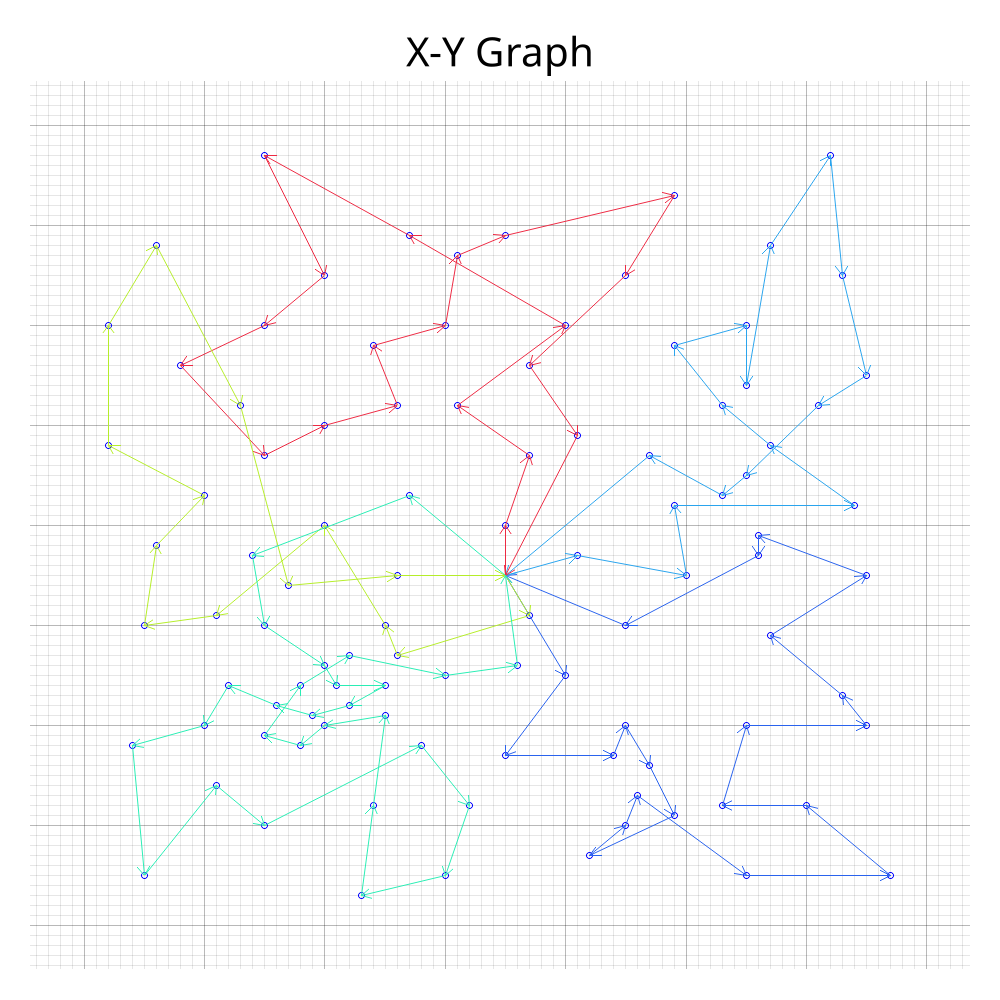
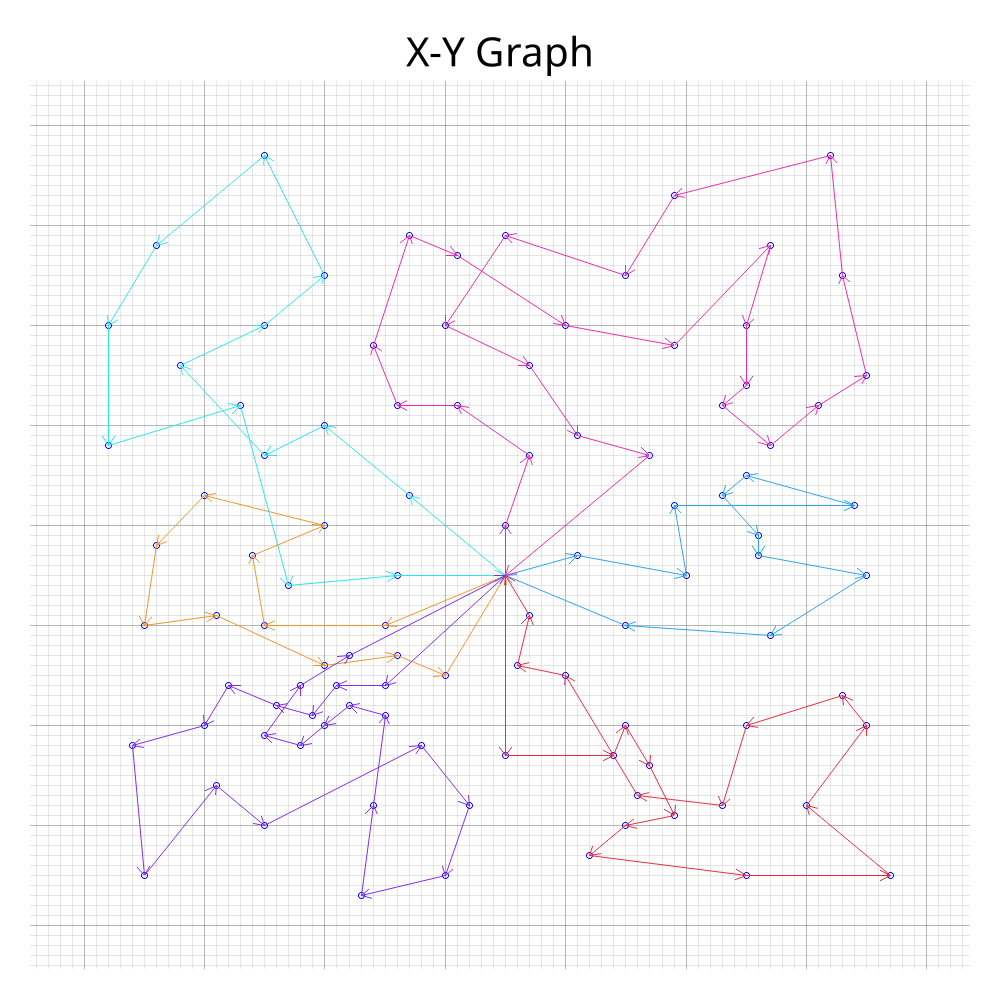
mutating

diff --git a/Project-2/src/genetic/mutation.rs b/Project-2/src/genetic/mutation.rs
@@ -19,6 +19,9 @@ pub fn mutate_nurse(individual: &mut Vec<Nurse>, info: &Info, config: &Config) {
         if rng.random_range(0.0..1.0) < config.heuristic_cluster_mutation_rate  {
             heuristic_cluster_mutation(individual, &mut rng, &info, &config);
         }
+        if rng.random_range(0.0..1.0) < 0.5 {
+            swap_mutation(individual, &mut rng, &info, &config);
+        }
     }
 }
 
@@ -58,4 +61,59 @@ pub fn heuristic_cluster_mutation(nurses: &mut Vec<Nurse>, rng: &mut ThreadRng, 
     nurses[best_nurse_idx].route.splice(best_route_idx..best_route_idx, cluster);
 }
 
-fn chunk_split_mutation() {}
+fn swap_mutation(nurses: &mut Vec<Nurse>, rng: &mut ThreadRng, info: &Info, config: &Config) {
+    let nurse_idx = rng.random_range(0..nurses.len());
+
+    let mut nurse: &mut Nurse = nurses.get_mut(nurse_idx).unwrap();
+    if nurse.route.len() > 1 {
+        let i = rng.random_range(0..nurse.route.len());
+        let mut j;
+        loop {
+            j = rng.random_range(0..nurse.route.len());
+            if j != i {
+                break;
+            }
+        }
+        nurse.route.swap(i, j);
+    }
+}
+
+fn heuristic_swap_mutation(nurses: &mut Vec<Nurse>, rng: &mut ThreadRng, info: &Info, config: &Config) {
+    // Select a random nurse with at least 2 patients
+    let mut nurse_idx;
+    loop {
+        nurse_idx = rng.random_range(0..nurses.len());
+        if nurses[nurse_idx].route.len() > 1 {
+            break;
+        }
+    }
+
+    let mut lowest_fitness = f32::INFINITY;
+    let mut best_nurse_idx = 0;
+    let mut best_pos1 = 0;
+    let mut best_pos2 = 0;
+
+    // Try the swap in every possible position in every nurse's route
+    for (curr_nurse_idx, nurse) in nurses.iter_mut().enumerate() {
+        let before_fitness = fitness_nurse(&nurse, &info, &config);
+
+        for i in 0..nurse.route.len() {
+            for j in 0..nurse.route.len() {
+                if i != j {
+                    nurse.route.swap(i,j);
+                    let after_fitness = fitness_nurse(&nurse, &info, &config);
+                    nurse.route.swap(j,i);
+
+                    if after_fitness - before_fitness < lowest_fitness {
+                        lowest_fitness = after_fitness - before_fitness;
+                        best_nurse_idx = curr_nurse_idx;
+                        best_pos1 = i;
+                        best_pos2 = j;
+                    }
+                }
+            }
+        }
+    }
+
+    nurses[best_nurse_idx].route.swap(best_pos1, best_pos2);
+}

diff --git a/Project-2/src/main.rs b/Project-2/src/main.rs
@@ -9,6 +9,6 @@ use genetic::genetic_algo;
 use crate::util::plot::{plot_best_individual, plot_points};
 
 fn main() {
-    plot_best_individual();
-    //genetic_algo::start("config/config.yaml");
+    //plot_best_individual();
+    genetic_algo::start("config/config.yaml");
 }
